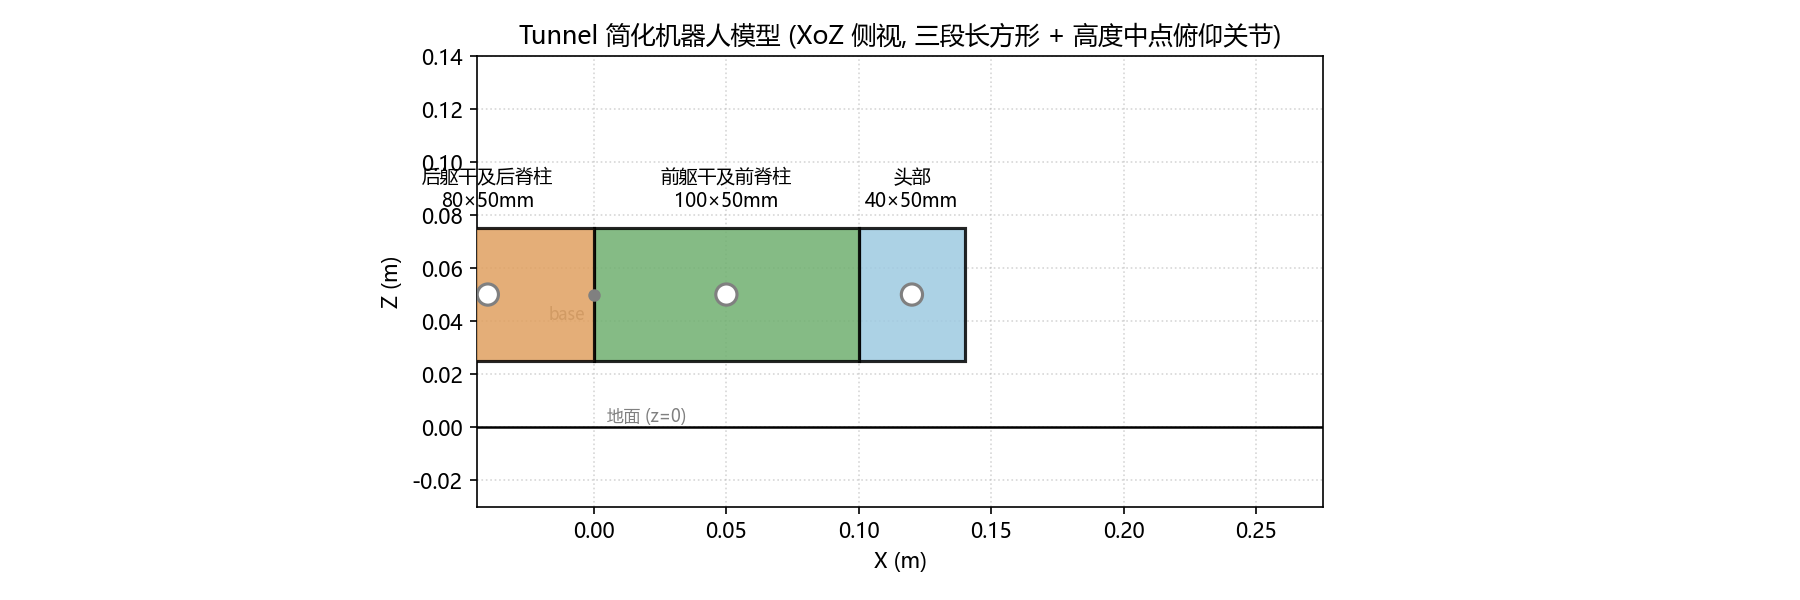
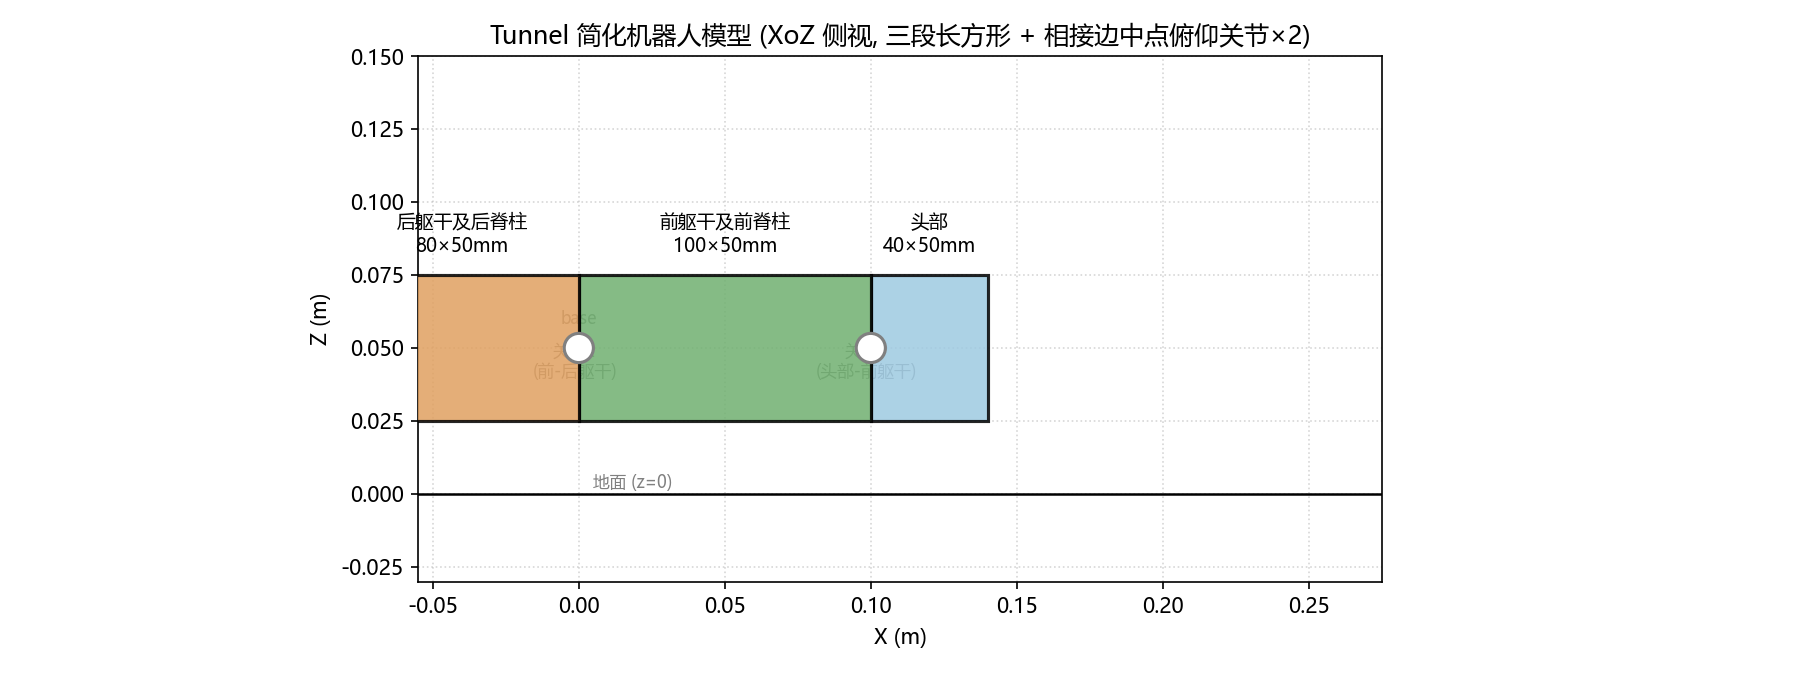
feat(viz): Viz_Tunnel_Robot 俯仰关节改为两两相接边中点×2 — 关节1(头-前躯干)/关节2(前-后躯干=base); 铰接运动学: 后躯干绕j2, 前躯干绕j2, 头部绕j1随前躯干联动

diff --git a/src/mjlab/scripts/Viz_Path/Viz_Tunnel_Robot.py b/src/mjlab/scripts/Viz_Path/Viz_Tunnel_Robot.py
@@ -1,6 +1,9 @@
 # Viz_Tunnel_Robot: Tunnel 任务简化机器人模型 (XoZ 侧视)
 # 结构 (三块长方形, 从前往后): 头部 → 前躯干及前脊柱 → 后躯干及后脊柱
-# 每块高度中间有一个俯仰关节 (绕 Y 轴, 侧视表现为矩形绕自身中心旋转)
+# 俯仰关节共 2 个, 位于两两相接的边的中点:
+#   关节1: 头部与前躯干相接边中点
+#   关节2: 前躯干与后躯干相接边中点 (= base 位置)
+# 运动学: 后躯干绕关节2, 前躯干绕关节2, 头部绕关节1 (随前躯干联动)
 import numpy as np
 import matplotlib.pyplot as plt
 from matplotlib.patches import Polygon, Circle
@@ -19,69 +22,97 @@ FRONT_HEIGHT_MM = 50     # 前躯干及前脊柱高度 (mm)
 REAR_LENGTH_MM = 80      # 后躯干及后脊柱长度 (mm)
 REAR_HEIGHT_MM = 50      # 后躯干及后脊柱高度 (mm)
 
-# --- 俯仰关节配置 (rad, 绕块中心 Y 轴旋转; 0 = 水平) ---
-HEAD_PITCH = 0.0         # 头部俯仰角
-FRONT_PITCH = 0.0        # 前躯干俯仰角
-REAR_PITCH = 0.0         # 后躯干俯仰角
+# --- 俯仰关节配置 (rad, 绕相接边中点旋转; 0 = 水平) ---
+HEAD_PITCH = 0.0         # 头部绕关节1 俯仰角
+FRONT_PITCH = 0.0        # 前躯干绕关节2 俯仰角
+REAR_PITCH = 0.0         # 后躯干绕关节2 俯仰角
 
 # --- 布局 ---
-BASE_X = 0.0             # 基准点 X (前躯干与后躯干交界处, m)
-BASE_Z = 0.05            # 机身中心高度 (m), 三块中心 Z
-JOINT_RADIUS = 0.004     # 关节圆点半径 (m)
+BASE_X = 0.0             # 关节2 X 位置 (前躯干与后躯干相接边, m)
+BASE_Z = 0.05            # 机身中心高度 (m), 关节位于高度中点
+JOINT_RADIUS = 0.005     # 关节圆点半径 (m)
 
 # --- 外观 (参考 GUI_Spine_Kinematics 配色) ---
 COLOR_HEAD = "#9ECAE1"   # 头部 浅蓝
 COLOR_FRONT = "#70B070"  # 前躯干 绿
 COLOR_REAR = "#E0A060"   # 后躯干 橙
-COLOR_BASE = "#808080"   # base 交界点 灰
+COLOR_BASE = "#808080"   # 关节/base 灰
 
 # --- 输出 ---
 SAVE_PATH = Path(__file__).parent / "Result" / "Viz_Tunnel_Robot.png"
 
 
-# 计算绕中心旋转后的矩形角点 (XoZ 平面, 绕 Y 轴俯仰)
-def rotated_rect_corners(cx: float, cz: float, half_l: float, half_h: float, pitch: float) -> np.ndarray:
-    c, s = np.cos(pitch), np.sin(pitch)
-    local = np.array([[-half_l, -half_h], [half_l, -half_h], [half_l, half_h], [-half_l, half_h]])
-    return local @ np.array([[c, -s], [s, c]]).T + np.array([cx, cz])
+# 2D 点绕旋转中心旋转 (XoZ 平面, 绕 Y 轴俯仰)
+def rotate_point(p, center, angle: float) -> np.ndarray:
+    d = np.asarray(p, dtype=float) - np.asarray(center, dtype=float)
+    c, s = np.cos(angle), np.sin(angle)
+    return np.asarray(center, dtype=float) + np.array([d[0] * c - d[1] * s, d[0] * s + d[1] * c])
 
 
-# 绘制 Tunnel 简化机器人 (三段长方形 + 俯仰关节)
+# 生成矩形角点并绕指定旋转中心旋转, 可附加平移
+def rect_points(center, half_l: float, half_h: float, pitch: float,
+                rot_center, extra_shift=(0.0, 0.0)) -> np.ndarray:
+    corners = np.array(
+        [[-half_l, -half_h], [half_l, -half_h], [half_l, half_h], [-half_l, half_h]]
+    ) + np.asarray(center)
+    out = np.array([rotate_point(p, rot_center, pitch) for p in corners])
+    return out + np.asarray(extra_shift)
+
+
+# 绘制 Tunnel 简化机器人 (三段长方形 + 两两相接边中点俯仰关节 ×2)
 def draw_tunnel_robot(ax) -> None:
-    mm = 1e-3  # mm → m
-    half_h = 0.5 * mm  # 通用半高占位 (按各段实际高度重算)
+    mm = 1e-3
 
-    # 各段几何 (中心 x, 半长, 半高)
+    # 关节2 (前-后躯干相接边中点, 固定) / 关节1 初始 (头-前躯干相接边中点)
+    j2 = np.array([BASE_X, BASE_Z])
+    j1_init = np.array([BASE_X + FRONT_LENGTH_MM * mm, BASE_Z])
+
+    # 各段初始中心 (直行水平时)
+    head_center = np.array([j1_init[0] + HEAD_LENGTH_MM * mm / 2, BASE_Z])
+    front_center = np.array([j2[0] + FRONT_LENGTH_MM * mm / 2, BASE_Z])
+    rear_center = np.array([j2[0] - REAR_LENGTH_MM * mm / 2, BASE_Z])
+
+    # 铰接运动学: 前躯干绕 j2 → 关节1 新位置 → 头部绕关节1 新位置
+    j1_new = rotate_point(j1_init, j2, FRONT_PITCH)
+
+    head_pts = rect_points(head_center, HEAD_LENGTH_MM * mm / 2, HEAD_HEIGHT_MM * mm / 2,
+                           HEAD_PITCH, j1_init, j1_new - j1_init)
+    front_pts = rect_points(front_center, FRONT_LENGTH_MM * mm / 2, FRONT_HEIGHT_MM * mm / 2,
+                            FRONT_PITCH, j2)
+    rear_pts = rect_points(rear_center, REAR_LENGTH_MM * mm / 2, REAR_HEIGHT_MM * mm / 2,
+                           REAR_PITCH, j2)
+
+    # 三段长方形
     blocks = [
-        # (名称, 中心 x, 半长, 半高, 俯仰角, 颜色)
-        ("头部", BASE_X + FRONT_LENGTH_MM * mm + HEAD_LENGTH_MM * mm / 2,
-         HEAD_LENGTH_MM * mm / 2, HEAD_HEIGHT_MM * mm / 2, HEAD_PITCH, COLOR_HEAD),
-        ("前躯干及前脊柱", BASE_X + FRONT_LENGTH_MM * mm / 2,
-         FRONT_LENGTH_MM * mm / 2, FRONT_HEIGHT_MM * mm / 2, FRONT_PITCH, COLOR_FRONT),
-        ("后躯干及后脊柱", BASE_X - REAR_LENGTH_MM * mm / 2,
-         REAR_LENGTH_MM * mm / 2, REAR_HEIGHT_MM * mm / 2, REAR_PITCH, COLOR_REAR),
+        ("头部", head_pts, HEAD_LENGTH_MM, HEAD_HEIGHT_MM, COLOR_HEAD),
+        ("前躯干及前脊柱", front_pts, FRONT_LENGTH_MM, FRONT_HEIGHT_MM, COLOR_FRONT),
+        ("后躯干及后脊柱", rear_pts, REAR_LENGTH_MM, REAR_HEIGHT_MM, COLOR_REAR),
     ]
-
-    for name, cx, half_l, half_h_i, pitch, color in blocks:
-        # 长方形
-        pts = rotated_rect_corners(cx, BASE_Z, half_l, half_h_i, pitch)
+    for name, pts, len_mm, h_mm, color in blocks:
         ax.add_patch(
             Polygon(pts, closed=True, facecolor=color, edgecolor="black",
                     linewidth=1.5, alpha=0.85, zorder=4)
         )
-        # 俯仰关节 (位于块高度中点 = 块中心)
-        ax.add_patch(
-            Circle((cx, BASE_Z), JOINT_RADIUS, facecolor="white", edgecolor=COLOR_BASE,
-                   linewidth=1.5, zorder=6)
-        )
-        # 标签: 名称 + 尺寸
-        ax.text(cx, BASE_Z + half_h_i + 0.006, f"{name}\n{int(half_l*2/mm)}×{int(half_h_i*2/mm)}mm",
+        ctr = pts.mean(axis=0)
+        ax.text(ctr[0], ctr[1] + h_mm * mm / 2 + 0.006,
+                f"{name}\n{int(len_mm)}×{int(h_mm)}mm",
                 ha="center", va="bottom", fontsize=9, zorder=5)
 
-    # base 交界点 (前/后躯干之间)
-    ax.plot(BASE_X, BASE_Z, "o", markersize=5, color=COLOR_BASE, zorder=6)
-    ax.annotate("base", (BASE_X, BASE_Z), textcoords="offset points",
-                xytext=(-4, -12), ha="right", fontsize=8, color=COLOR_BASE)
+    # 两个俯仰关节 (两两相接边中点)
+    for j, name in [
+        (j2, "关节2\n(前-后躯干)"),
+        (j1_new, "关节1\n(头部-前躯干)"),
+    ]:
+        ax.add_patch(
+            Circle(j, JOINT_RADIUS, facecolor="white", edgecolor=COLOR_BASE,
+                   linewidth=1.5, zorder=6)
+        )
+        ax.annotate(name, (j[0], j[1]), textcoords="offset points",
+                    xytext=(-2, -14), ha="center", fontsize=8, color=COLOR_BASE)
+
+    # base 标注 (关节2 即 base 位置)
+    ax.text(j2[0], j2[1] + JOINT_RADIUS + 0.002, "base", ha="center",
+            va="bottom", fontsize=8, color=COLOR_BASE)
 
     # 地面线
     ax.axhline(0.0, color="black", linestyle="-", linewidth=1.2, zorder=2)
@@ -94,14 +125,14 @@ def plot_tunnel_robot() -> None:
     total_len = (HEAD_LENGTH_MM + FRONT_LENGTH_MM + REAR_LENGTH_MM) * mm
     max_h = max(HEAD_HEIGHT_MM, FRONT_HEIGHT_MM, REAR_HEIGHT_MM) * mm
 
-    fig, ax = plt.subplots(figsize=(12, 4))
+    fig, ax = plt.subplots(figsize=(12, 4.5))
     draw_tunnel_robot(ax)
 
     ax.set_xlabel("X (m)")
     ax.set_ylabel("Z (m)")
-    ax.set_title("Tunnel 简化机器人模型 (XoZ 侧视, 三段长方形 + 高度中点俯仰关节)")
-    ax.set_xlim(BASE_X - total_len * 0.2, BASE_X + total_len * 1.25)
-    ax.set_ylim(-0.03, BASE_Z + max_h + 0.04)
+    ax.set_title("Tunnel 简化机器人模型 (XoZ 侧视, 三段长方形 + 相接边中点俯仰关节×2)")
+    ax.set_xlim(BASE_X - total_len * 0.25, BASE_X + total_len * 1.25)
+    ax.set_ylim(-0.03, BASE_Z + max_h + 0.05)
     ax.grid(True, linestyle=":", alpha=0.5)
     ax.set_aspect("equal")
 
